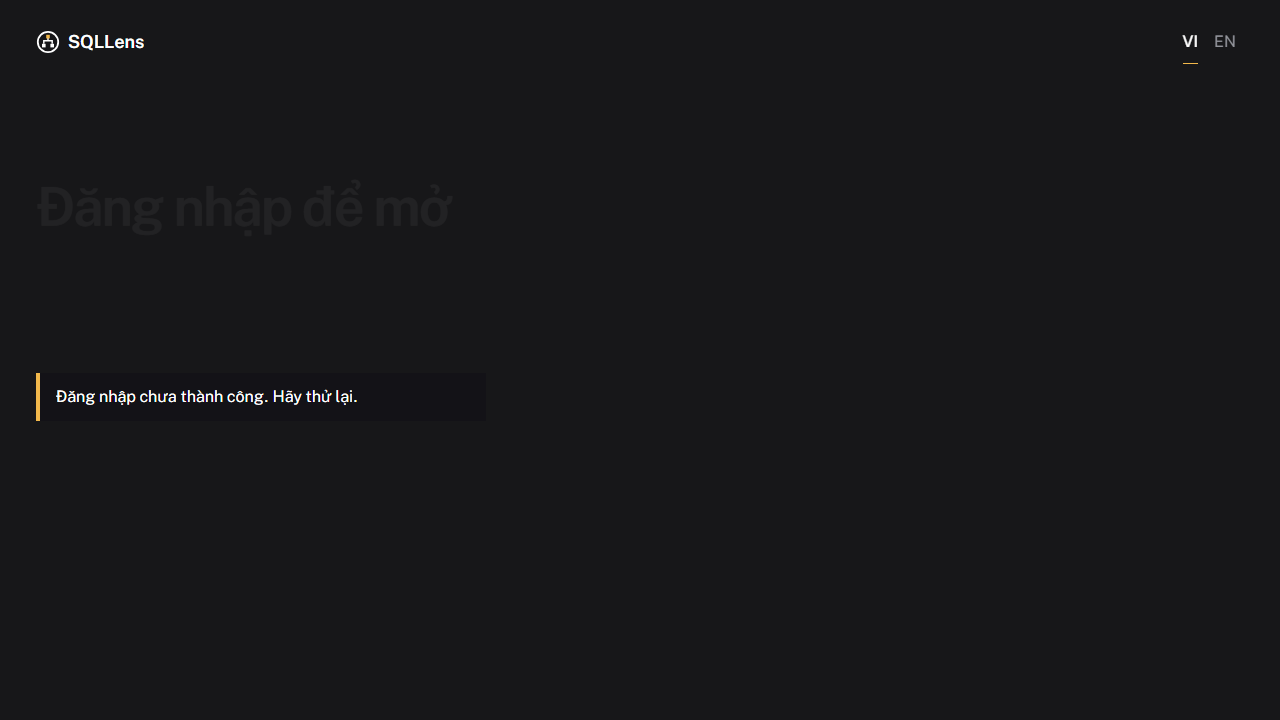
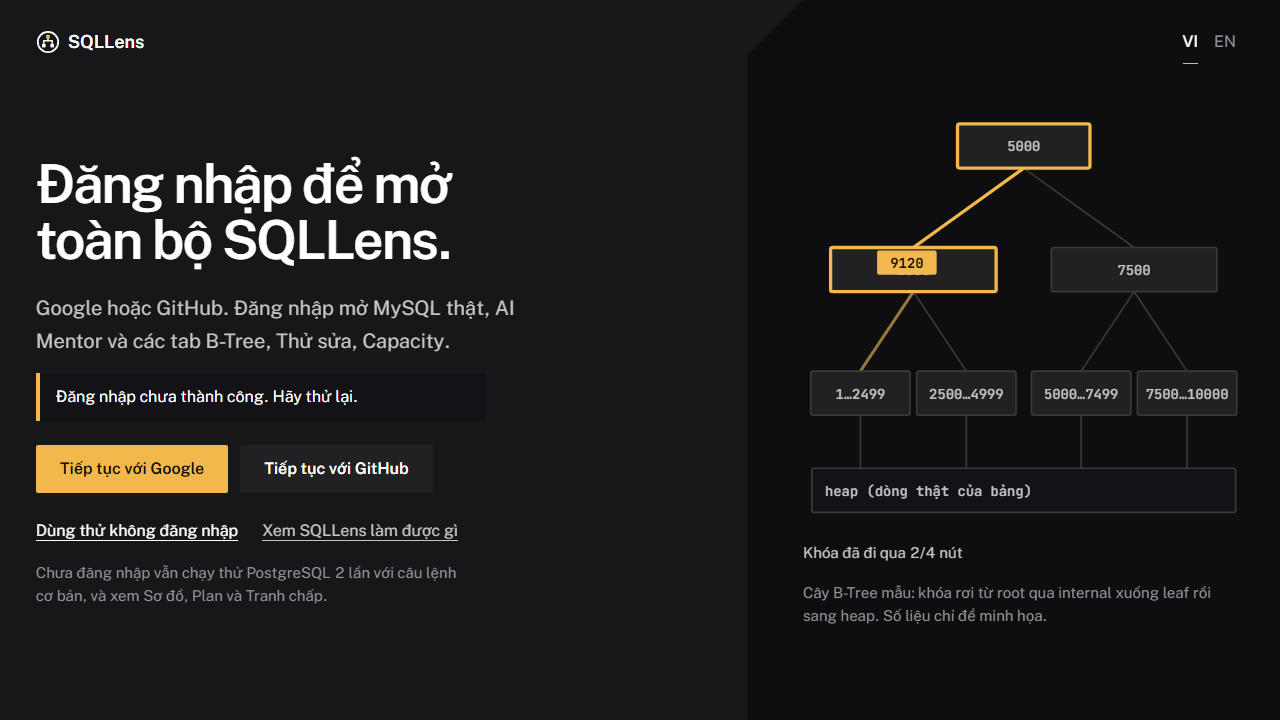
docs(Task066): bàn giao

diff --git a/_bmad-output/SP005/STR024/Task066/ban_giao_task066.md b/_bmad-output/SP005/STR024/Task066/ban_giao_task066.md
@@ -1,0 +1,14 @@
+# Bàn giao Task066
+
+Đã làm: trang `/vi/login` và `/en/login` không có khung ứng dụng, cùng ngôn ngữ hình ảnh với `/about` (dùng lại `about.css`, `tree.tsx`, `ui.tsx`). Một timeline GSAP lặp bốn khóa rơi từ root qua internal xuống leaf rồi sang heap, giảm chuyển động thì vẽ sẵn một đường đi. Hai nút Google, GitHub dùng `/api/auth/<provider>/start?next=`, có nút xem `/about` và "Dùng thử không đăng nhập". `next` qua `safeNext` (khớp `safeNext` của Gin, bác `//evil`, `https://evil`, `/\evil`, ký tự điều khiển, rỗng, trỏ về chính `/login`); `next` gửi cho Gin được bọc thành `/<locale>/login?next=...` để `auth_error` hiện ngay ở trang này, đăng nhập xong thì trang này chuyển về `next`. Nút "Đăng nhập" trên header giờ là liên kết tới `/login` giữ `next`, ngôn ngữ, engine và SQL (qua `sql-stash`, lưu lỗi thì báo và bấm lần hai mới đi). `LoginDialog` của cổng MySQL giữ nguyên. Khách (`/api/me` 401): chỉ chạy `select, insert, update, delete, create_table` xét bằng `parseSql`, mọi câu trong lô phải thuộc nhóm, 2 lượt đếm ở `localStorage` (try/catch, rơi về bộ nhớ tab, cập nhật giữa các tab qua sự kiện `storage`), chỉ tính khi chạy xong. Cổng `guestBlocked()` nằm ở đầu `run()` nên Chạy, Thử lại sau lỗi tải và xác nhận schema đều qua cùng một cổng. Luôn hiện số lượt còn lại; hết lượt hoặc câu ngoài nhóm thì không chạy gì, không tính lượt, SQL còn nguyên, có lời mời tới `/login`. Tab B-Tree, Thử sửa, Capacity, Mentor và nút Sinh dữ liệu khóa kèm lời mời cho khách, không gọi `readBTree`, `tryChange`, `/api/ai`. Tab Tranh chấp (từ Task070) mở cho khách. `/api/me` 503 hoặc lỗi mạng: không chặn, không đếm. Ghi chú `shortcut:` ở đầu `guest.tsx` nói giới hạn chỉ ở client và vì sao chấp nhận; chuỗi giao diện không gọi nó là bảo mật.
+File chính: `web/src/modules/auth/{login-page,guest,next}.tsx|ts`, `web/src/app/[locale]/login/page.tsx`, `web/src/components/shell/app-frame.tsx`, `auth-controls.tsx`, `auth-provider.tsx` (thêm banner `storageBlocked`), `web/src/modules/lab/lab-workspace.tsx` (cổng, đếm, Sinh dữ liệu), `web/src/modules/lab/stage/stage.tsx` (khóa tab), `web/messages/{vi,en}/auth.json`, `web/e2e/login.spec.ts`, `auth.spec.ts`, `lab-stage.spec.ts`.
+Kết quả kiểm tra (bản cuối `6c36311`, đã merge main gồm Task069, 070, 076):
+- `npm run check` thoát 0 (484 test vitest đạt, trong đó `next.test.ts`). `API_ORIGIN=http://localhost:8080 npm run build` thoát 0.
+- `E2E_PORT=3172 npx playwright test e2e/login.spec.ts --workers=1`: 43 đạt (vi và en).
+- `E2E_PORT=3172 npx playwright test e2e/auth.spec.ts e2e/lab.spec.ts e2e/lab-stage.spec.ts --workers=1` trên bản build cuối: 112 đạt, 0 lỗi (một lần chạy trước đó `lab.spec.ts` AC4 vi hỏng một lần do máy tải, chạy lại đạt).
+- Sau đó chỉ sửa thời gian chờ chụp ảnh trong `login.spec.ts`; test `auth_error` chạy lại đạt.
+- Đã xem ảnh trong `anh/`: `login-vi-1440`, `login-en-1440`, `login-vi-390`, `login-en-390`, `login-loi-vi-1440`, `het-luot-vi-1440`, `het-luot-vi-390`, `het-luot-en-390`, `bi-chan-en-1440`, `tab-khoa-vi-1440`, `tab-khoa-en-1440`.
+Kết quả review: vòng 1 có 2 lỗi confirmed (Sinh dữ liệu không khóa; Thử lại bỏ qua cổng) và 1 needs_validation (`guestRun` sau hủy xác nhận), đã sửa cả ba. Vòng 2: hết cả ba, thêm hai ý nhỏ đã sửa (`busy` thả khi cổng ném lỗi; `aria-describedby` trỏ vào phần tử ẩn). Race hai tab dùng chung lượt vẫn còn (đếm client, đã ghi `shortcut:`).
+Chưa làm được: chưa thử OAuth và Gin thật. Chưa kiểm Firefox, Safari, điện thoại thật. Chưa đo FPS cảnh GSAP trên CPU chậm. Parser không tải được thì khách bị chặn (đúng theo task) nhưng chưa có thông điệp riêng ngoài `guest.parser`.
+Phát sinh: (1) task066.md ghi khách chỉ xem Sơ đồ và Plan, thực tế thêm Tranh chấp theo chỉ đạo phiên chính, nên cập nhật mô tả. (2) `LoginDialog` reason `"manual"` không còn nơi gọi, có thể bỏ. (3) `lab-stage.spec.ts` bài "AC2 Mentor chưa đăng nhập" viết lại vì khách không còn vào được Mentor. Các spec chạy với khách thật chỉ dùng được câu cơ bản; spec mới cần SQL dùng `CREATE INDEX` phải mock `/api/me` 503 hoặc 200. (4) Spec cũ ghi đè ảnh Task044 và Task032 khi chạy; đã hoàn nguyên, không commit.
+Việc tiếp theo cần biết: mọi đường chạy SQL mới trong `lab-workspace.tsx` phải đi qua `run()` (hoặc `guestBlocked()`) để khách bị chặn đúng. Tab mới muốn khóa cho khách thì thêm vào `GUEST_LOCKED_TABS` trong `guest.tsx`. Muốn đổi số lượt thì sửa `GUEST_LIMIT`, cả `landing`/`auth.json` đọc số này qua biến `{total}`.
